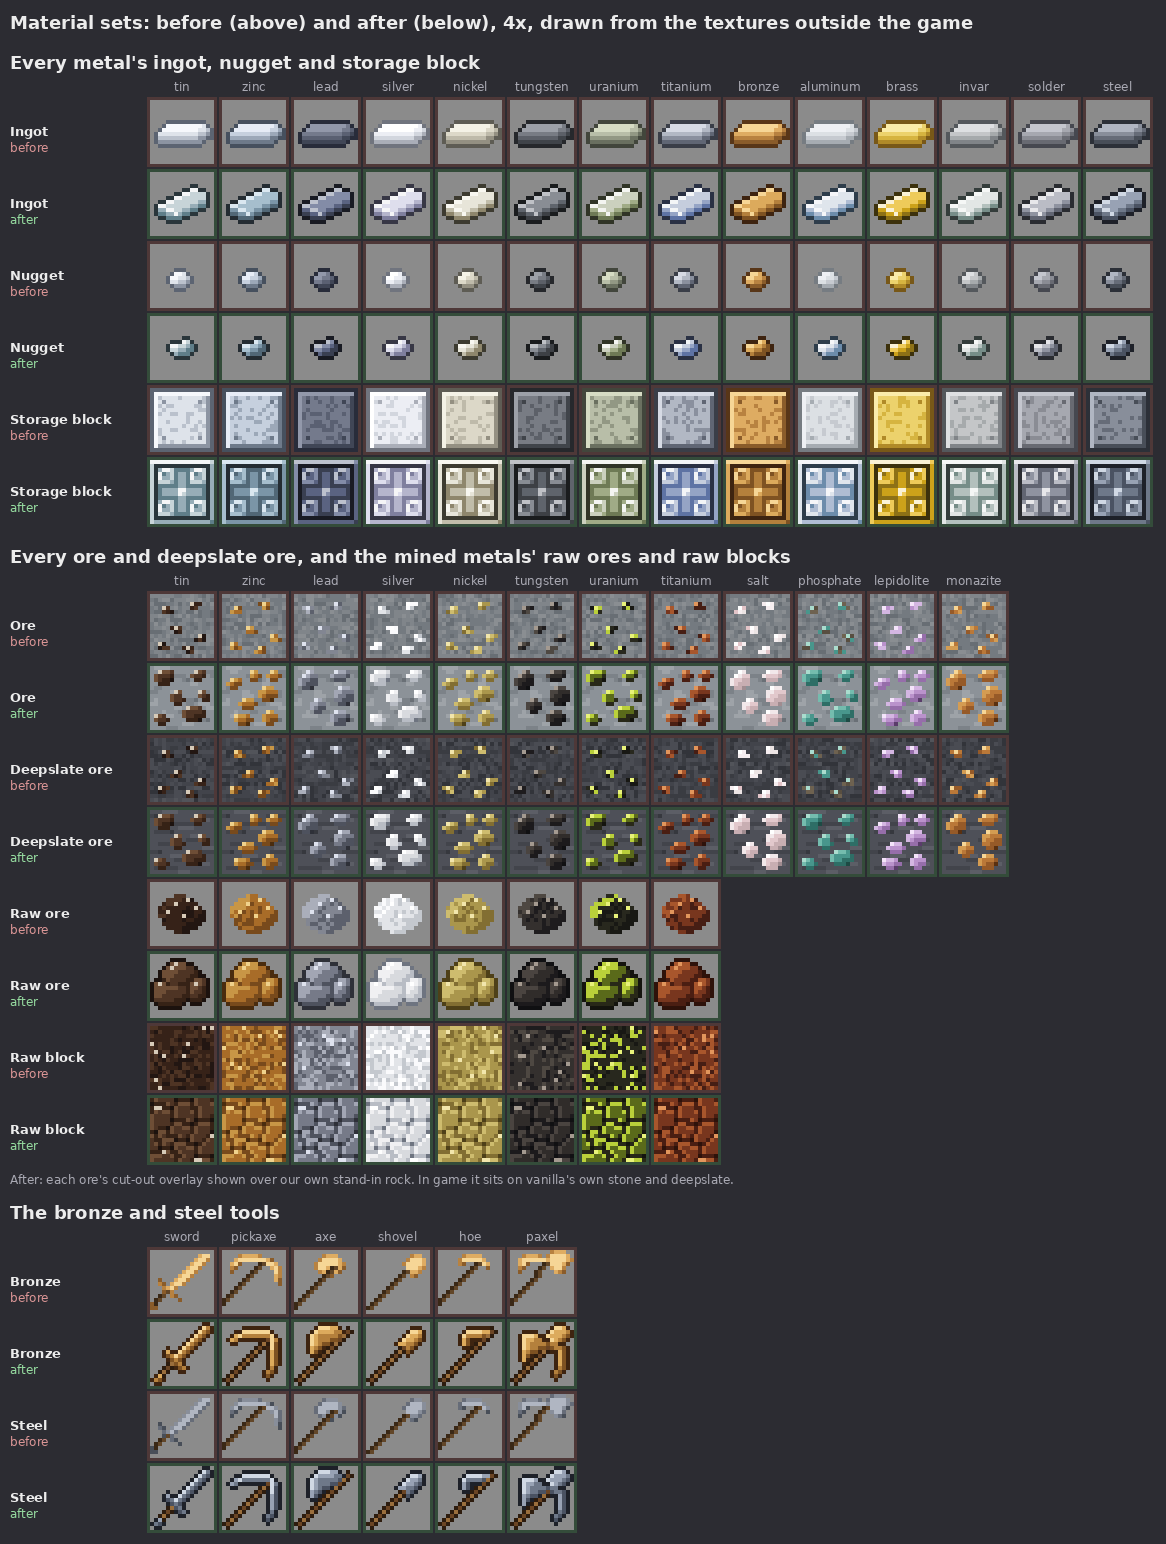
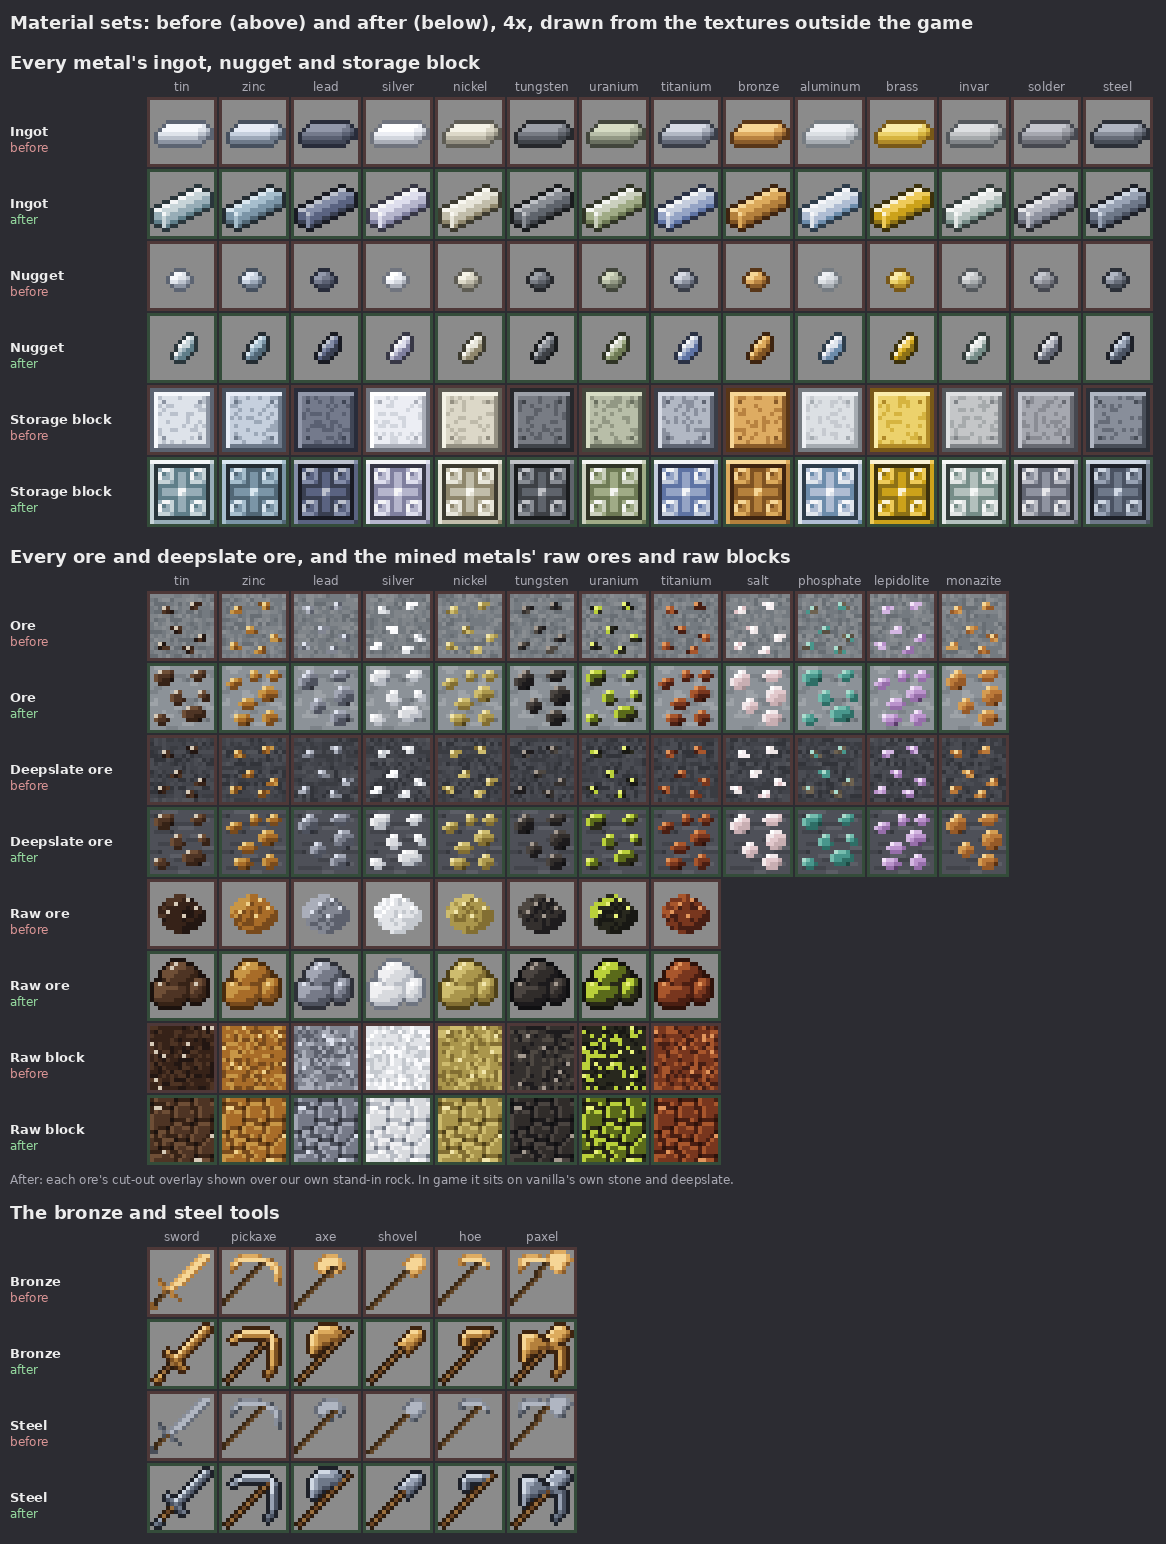
Material sets: ingot and nugget resized to vanilla's from the in-game shots
CI's first run set vanilla's gold and copper ingots and nuggets beside
ours. Our nugget, a flat lump with a knob, did not look like vanilla's
small diagonal shards, and our ingot read smaller and thinner than
vanilla's.

Both maps are redrawn fresh to the sizes measured from the shots: the
ingot fills the slot's width (16 by 12 with its outline) with a squared
near end, and the nugget is a 7 by 8 shard on the diagonal. Nothing was
traced: the shots give sizes and forms, not pixels. The docs, the
before/after picture and the map comments say so.

Claude-Session: https://claude.ai/code/session_018Mrp36x7QkkDgDNeSZ6d9v

diff --git a/docs/MATERIAL_SETS.md b/docs/MATERIAL_SETS.md
@@ -119,8 +119,8 @@ approved them.
 | **Ore** (`<ore>_ore`, `deepslate_<ore>_ore`) | **Vanilla's own stone or deepslate with our overlay on top.** The block model references `minecraft:block/stone` (or `minecraft:block/deepslate`, with `deepslate_top` on top and bottom) by name, never copied, so the ore matches the rock around it exactly. The ore's texture is only the **overlay**: five to seven **chunky, rounded blobs** of the ore, each 3 to 5 pixels, cut out (fully clear or fully opaque, nothing between) and clear everywhere else. **Each blob:** a highlight on its lit top-left, light along its top and left, mid in the body, dark along its lower right. **No outline round blobs:** the rock is the outline (at most a single contact pixel of the darkest tone under a big lump). **Three layouts**, `ore_a`, `ore_b` and `ore_c`, taken in turn so neighbouring ores do not look alike; **the same layout** in stone and deepslate. **Clearly visible:** the blobs are bigger and bolder than the mod's older ores' specks. |
 | **Raw ore** (`raw_<ore>`) | **One lumpy, rounded chunk** filling most of the slot, in the lighter tones, lit top-left, outlined. |
 | **Raw block** | **Rounded lumps packed like cobblestone,** each lit top-left, with dark joints between them. |
-| **Nugget** | **Vanilla's nugget form, drawn fresh:** a small compact lump in the middle of the slot (about 8 by 6 pixels, a third of the ingot's area), a knob at its upper right, lit top-left with highlights along its lit top edges and a dark underside, outlined. |
-| **Ingot** | **Vanilla's ingot form, drawn fresh:** one bar lying on the diagonal, rising from the lower left to the upper right, seen from above and in front. A light top face with the highlight along its back edge, a front face in mid and dark, small end faces, outlined. It spans nearly the whole slot (columns 1 to 14, rows 3 to 12), centred. |
+| **Nugget** | **Vanilla's nugget form, drawn fresh:** a small shard on the diagonal in the middle of the slot (about 7 by 8 pixels with its outline), leaning to the upper right, lit along its upper-left edge with a dark lower right, outlined. |
+| **Ingot** | **Vanilla's ingot form, drawn fresh:** one bar lying on the diagonal, rising from the lower left to the upper right, seen from above and in front. A light top face with the highlight along its back edge, a front face in mid and dark, small end faces, outlined. It fills the slot's width (columns 0 to 15, rows 3 to 14), with a squared near end. |
 | **Storage block** | **A bevelled square:** a light frame, inside it a field divided by a cross into **four rounded inset panels** (a four-panel inlay), each lit top-left. The block a player stacks is the material's emblem, so it is the most decorated piece. |
 | **Tools** (sword, pickaxe, axe, shovel, hoe, paxel) | **Vanilla's silhouettes on the diagonal,** the head in the material and the handle a two-tone stick. **The head:** a highlight along its lit edge, dark along the other, outlined. **No extra parts.** |
 | **Armor icons** (helmet, chestplate, leggings, boots) | **Rounded vanilla shapes in the material,** lit along their upper parts. **A gem** (two tones of a contrasting colour) may sit at the knees or ankles, as the owner's leggings and boots carry emeralds. |

diff --git a/docs/features/material-sets.md b/docs/features/material-sets.md
@@ -19,7 +19,7 @@ darkest, light from the top left, flat tones and no noise.
 - **Ingots and nuggets, all fourteen metals** (tin, zinc, lead, silver, nickel, tungsten, uranium, titanium, bronze,
   aluminum, brass, invar, solder, steel): one shared ingot and one shared nugget in **vanilla's form**, drawn fresh in our
   own symbols so they sit with vanilla's in an inventory. The ingot is a bar lying on the diagonal with a lit top face, a
-  front face and small end faces; the nugget a small centred lump with a knob at its upper right. The form is drawn from
+  front face and a squared near end, filling the slot's width; the nugget a small shard on the diagonal. The form is drawn from
   memory of vanilla's (no vanilla ingot, nugget, stone or deepslate texture is on the machine that drew it, and none was
   downloaded or read); the client test sets vanilla's iron, gold and copper beside ours for the owner to judge it in
   game.
@@ -191,10 +191,19 @@ has run on the branch.
 Not applicable: art only.
 
 ## Rollout and open questions
-- **The ingot and nugget form is drawn from memory** of vanilla's; the close-ups beside vanilla's iron, gold and copper
-  are the judge. Alternates from the design round can be offered if the bar looks too flat or the nugget too small: a bar
-  with an even top and front face, a highlight on the crease instead of the back edge, and a larger nugget. Iterate
-  `tools/material_icons/ingot.txt` and `nugget.txt` on the owner's word.
+- **The ingot and nugget form is drawn from memory** of vanilla's, then corrected once from CI's in-game shots.
+  - **The first run** (f554b439) set vanilla's gold and copper ingots and nuggets beside ours.
+  - **What it showed:**
+    - our nugget, a flat lump 8 by 6 with a knob, did not look like vanilla's, which are small shards on the diagonal;
+    - our ingot, 14 by 10, read smaller and thinner than vanilla's.
+  - **Measured from the shots:** vanilla's ingot spans about 16 by 11 to 12 pixels with its outline, and its nuggets are
+    about 5 to 7 wide by 7 to 8 tall, leaning up-right.
+  - **The fix:** the maps were redrawn fresh to those sizes. The ingot is now 16 by 12 with a squared near end, and the
+    nugget a 7 by 8 shard.
+  - **Nothing was traced:** the shots are 480 by 270 JPEGs, in which an ingot is a few dozen blurred pixels, so they
+    give sizes and forms, not pixels.
+  - The next CI run's close-ups are the judge again. Iterate `tools/material_icons/ingot.txt` and `nugget.txt` on the
+    owner's word.
 - **Only bronze and steel's palettes were approved;** the other twelve follow the rule above. Most are greys told apart
   mostly by lightness, and the closest pairs sit at the floor of 8 (lead and steel, tin and invar, lead and tungsten,
   zinc and solder, silver and titanium); the owner may want some spread further, or a tint changed.

diff --git a/CHANGELOG.md b/CHANGELOG.md
@@ -9,7 +9,7 @@ Every change to Jugcraft, newest first, grouped by pull request. For what each t
 No numbered release yet. Everything below is on `main`.
 
 ### Unmerged: Material sets: tools, ingots and ores redrawn
-- **Every metal's ingot and nugget in vanilla's form**, drawn fresh from memory (nothing of Mojang's copied): one shared bar and lump for all fourteen metals, each in its own five-tone ramp, meant to sit beside vanilla's in an inventory as one set. A client test sets them beside vanilla's iron, gold and copper for the owner to judge. Bronze and steel take the owner's chosen palettes; the other twelve stand on the same ladder, each kept clear of the others and of vanilla's iron, gold and copper.
+- **Every metal's ingot and nugget in vanilla's form**, drawn fresh from memory (nothing of Mojang's copied): one shared bar and shard for all fourteen metals, each in its own five-tone ramp, meant to sit beside vanilla's in an inventory as one set. A client test sets them beside vanilla's iron, gold and copper for the owner to judge. Bronze and steel take the owner's chosen palettes; the other twelve stand on the same ladder, each kept clear of the others and of vanilla's iron, gold and copper.
 - **Storage blocks** in the owner's four-panel inlay; **raw ores and raw blocks** as lumpy chunks and packed lumps in each ore's own tones.
 - **Ores on vanilla's own stone and deepslate**: each ore block is now vanilla's rock, referenced by name and never copied, with our ore's chunky blobs as a cut-out layer on top, so it matches the rock round it. Three blob layouts take turns.
 - **Bronze and steel tools** (sword, pickaxe, axe, shovel, hoe, paxel) redrawn in the same style. Art only: IDs, recipes, drops and worldgen are unchanged and worlds need no migration; the maps are `tools/material_icons/`. Record: [material-sets.md](docs/features/material-sets.md).
